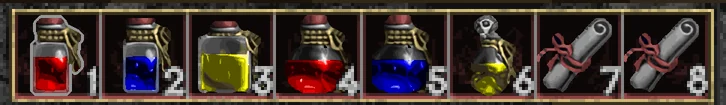
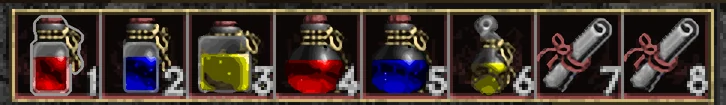
Items: the redrawn item pictures (the items page and the devlog post's game pictures recaptured with the new set) and a new devlog section, Fresh eyes: the fans who spotted the plastic blood, the second round, 1996, the first version and now side by side

diff --git a/items/index.html b/items/index.html
@@ -254,7 +254,7 @@ function onDpr(fn) {
    whole sheet over at once; pressing an item and holding (or Space or Enter on it) shows its other picture while
    held. The sheet's scale is capped: one capture pixel at most two device pixels. */
 (function(){
-const D = {"items":[{"inv":"A","label":"The Undead Crown","c":8,"r":0,"w":2,"h":2,"q":"unique","kind":"Unique","line":"Straight off the Skeleton King's head. He's had it long enough.","curs":77,"type":7},{"inv":"A","label":"Empyrean Band","c":7,"r":3,"w":1,"h":1,"q":"unique","kind":"Unique","line":null,"curs":18,"type":12},{"inv":"A","label":"Optic Amulet","c":5,"r":3,"w":1,"h":1,"q":"unique","kind":"Unique","line":null,"curs":44,"type":13},{"inv":"A","label":"Ring of Truth","c":4,"r":3,"w":1,"h":1,"q":"unique","kind":"Unique","line":null,"curs":10,"type":12},{"inv":"A","label":"Harlequin Crest","c":6,"r":0,"w":2,"h":2,"q":"unique","kind":"Unique","line":"Minus three armour. Wear it anyway.","curs":81,"type":7},{"inv":"A","label":"Arkaine's Valor","c":0,"r":0,"w":2,"h":3,"q":"unique","kind":"Unique","line":"Everyone remembers the first time they put it on.","curs":157,"type":8},{"inv":"A","label":"The Butcher's Cleaver","c":2,"r":0,"w":2,"h":3,"q":"unique","kind":"Unique","line":"Pried out of the Butcher's hands. Still sticky.","curs":106,"type":2},{"inv":"A","label":"Potion of Full Healing","c":9,"r":2,"w":1,"h":1,"q":"normal","kind":"Potion","line":null,"curs":35,"type":0},{"inv":"A","label":"Potion of Healing","c":0,"r":3,"w":1,"h":1,"q":"normal","kind":"Potion","line":"Click, click, click\u2026 still dying.","curs":32,"type":0},{"inv":"A","label":"Elixir of Vitality","c":8,"r":2,"w":1,"h":1,"q":"normal","kind":"Elixir","line":null,"curs":31,"type":0},{"inv":"A","label":"Elixir of Dexterity","c":7,"r":2,"w":1,"h":1,"q":"normal","kind":"Elixir","line":null,"curs":36,"type":0},{"inv":"A","label":"Ring of magic","c":9,"r":3,"w":1,"h":1,"q":"magic","kind":"Magic","line":null,"curs":12,"type":12},{"inv":"A","label":"Scroll of Town Portal","c":8,"r":3,"w":1,"h":1,"q":"normal","kind":"Scroll","line":"Read it and run. No shame.","curs":1,"type":0},{"inv":"A","label":"Gold","c":6,"r":2,"w":1,"h":1,"q":"normal","kind":"Gold","line":null,"curs":6,"type":11},{"inv":"A","label":"The Grandfather","c":4,"r":0,"w":2,"h":3,"q":"unique","kind":"Unique","line":"A great sword in one hand. Don't ask how.","curs":161,"type":1},{"inv":"A","label":"Potion of Mana","c":1,"r":3,"w":1,"h":1,"q":"normal","kind":"Potion","line":null,"curs":39,"type":0},{"inv":"A","label":"Potion of Full Rejuvenation","c":2,"r":3,"w":1,"h":1,"q":"normal","kind":"Potion","line":null,"curs":33,"type":0},{"inv":"A","label":"Elixir of Strength","c":3,"r":3,"w":1,"h":1,"q":"normal","kind":"Elixir","line":null,"curs":38,"type":0},{"inv":"A","label":"Bramble","c":6,"r":3,"w":1,"h":1,"q":"unique","kind":"Unique","line":null,"curs":9,"type":12},{"inv":"B","label":"The Executioner's Blade","c":9,"r":0,"w":1,"h":3,"q":"unique","kind":"Unique","line":null,"curs":58,"type":1},{"inv":"B","label":"Potion of Full Mana","c":9,"r":3,"w":1,"h":1,"q":"normal","kind":"Potion","line":null,"curs":0,"type":0},{"inv":"B","label":"Spectral Elixir","c":1,"r":3,"w":1,"h":1,"q":"normal","kind":"Quest","line":null,"curs":15,"type":0},{"inv":"B","label":"Ring of Engagement","c":7,"r":3,"w":1,"h":1,"q":"unique","kind":"Unique","line":null,"curs":13,"type":12},{"inv":"B","label":"Bronze Amulet of the fox","c":8,"r":3,"w":1,"h":1,"q":"magic","kind":"Magic","line":null,"curs":45,"type":13},{"inv":"B","label":"Staff of Lazarus","c":4,"r":0,"w":2,"h":3,"q":"normal","kind":"Quest","line":null,"curs":155,"type":0},{"inv":"B","label":"Gryphon's Claw","c":8,"r":0,"w":1,"h":3,"q":"unique","kind":"Unique","line":null,"curs":68,"type":1},{"inv":"B","label":"Messerschmidt's Reaver","c":2,"r":0,"w":2,"h":3,"q":"unique","kind":"Unique","line":"Messerschmidt means knife-smith. This is not a knife.","curs":163,"type":2},{"inv":"B","label":"Blood Stone","c":2,"r":3,"w":1,"h":1,"q":"normal","kind":"Quest","line":null,"curs":25,"type":0},{"inv":"B","label":"Constricting Ring","c":6,"r":3,"w":1,"h":1,"q":"unique","kind":"Unique","line":null,"curs":14,"type":12},{"inv":"B","label":"Brain","c":3,"r":3,"w":1,"h":1,"q":"normal","kind":"Quest","line":null,"curs":40,"type":0},{"inv":"B","label":"Ring of Regha","c":5,"r":3,"w":1,"h":1,"q":"unique","kind":"Unique","line":null,"curs":11,"type":12},{"inv":"B","label":"The Bleeder","c":4,"r":3,"w":1,"h":1,"q":"unique","kind":"Unique","line":null,"curs":8,"type":12},{"inv":"B","label":"Windforce","c":0,"r":0,"w":2,"h":3,"q":"unique","kind":"Unique","line":"Knocks them back. Way back.","curs":164,"type":3},{"inv":"B","label":"Golden Elixir","c":0,"r":3,"w":1,"h":1,"q":"normal","kind":"Quest","line":null,"curs":17,"type":0},{"inv":"B","label":"Anvil of Fury","c":6,"r":0,"w":2,"h":3,"q":"normal","kind":"Quest","line":null,"curs":140,"type":0},{"inv":"C","label":"Tavern Sign","c":2,"r":0,"w":2,"h":3,"q":"normal","kind":"Quest","line":"Ogden has been asking for it for 30 years.","curs":126,"type":0},{"inv":"C","label":"Fungal Tome","c":4,"r":0,"w":2,"h":2,"q":"normal","kind":"Quest","line":null,"curs":97,"type":0},{"inv":"C","label":"Magic Rock","c":6,"r":0,"w":2,"h":2,"q":"normal","kind":"Quest","line":null,"curs":76,"type":0},{"inv":"C","label":"Potion of Rejuvenation","c":3,"r":3,"w":1,"h":1,"q":"normal","kind":"Potion","line":null,"curs":37,"type":0},{"inv":"C","label":"Veil of Steel","c":8,"r":2,"w":2,"h":2,"q":"unique","kind":"Unique","line":"Takes some of your light away. In Diablo, of all games.","curs":85,"type":7},{"inv":"C","label":"Scroll of Identify","c":0,"r":3,"w":1,"h":1,"q":"normal","kind":"Scroll","line":null,"curs":1,"type":0},{"inv":"C","label":"Book","c":4,"r":2,"w":2,"h":2,"q":"normal","kind":"Book","line":null,"curs":86,"type":0},{"inv":"C","label":"Elixir of Magic","c":1,"r":3,"w":1,"h":1,"q":"normal","kind":"Elixir","line":null,"curs":34,"type":0},{"inv":"C","label":"Stonecleaver","c":0,"r":0,"w":2,"h":3,"q":"unique","kind":"Unique","line":null,"curs":104,"type":2},{"inv":"C","label":"Royal Circlet","c":8,"r":0,"w":2,"h":2,"q":"unique","kind":"Unique","line":null,"curs":79,"type":7},{"inv":"C","label":"Black Mushroom","c":6,"r":2,"w":2,"h":2,"q":"normal","kind":"Quest","line":null,"curs":89,"type":0},{"inv":"D","label":"Cap","c":6,"r":2,"w":2,"h":2,"q":"magic","kind":"Magic","line":null,"curs":91,"type":7},{"inv":"D","label":"Full Plate Mail","c":0,"r":0,"w":2,"h":3,"q":"magic","kind":"Magic","line":"Every Warrior's dream. Clanks a bit.","curs":151,"type":9},{"inv":"D","label":"Ring of balance","c":0,"r":3,"w":1,"h":1,"q":"magic","kind":"Magic","line":null,"curs":12,"type":12},{"inv":"D","label":"The Rainbow Cloak","c":4,"r":0,"w":2,"h":3,"q":"unique","kind":"Unique","line":"Nothing says gothic horror like a rainbow.","curs":138,"type":6},{"inv":"D","label":"Gold","c":5,"r":3,"w":1,"h":1,"q":"normal","kind":"Gold","line":null,"curs":5,"type":11},{"inv":"D","label":"OverLord's Helm","c":6,"r":0,"w":2,"h":2,"q":"unique","kind":"Unique","line":null,"curs":99,"type":7},{"inv":"D","label":"Elixir of Vitality","c":4,"r":3,"w":1,"h":1,"q":"normal","kind":"Elixir","line":null,"curs":31,"type":0},{"inv":"D","label":"Potion of Full Healing","c":3,"r":3,"w":1,"h":1,"q":"normal","kind":"Potion","line":null,"curs":35,"type":0},{"inv":"D","label":"Amulet of the fox","c":1,"r":3,"w":1,"h":1,"q":"magic","kind":"Magic","line":null,"curs":45,"type":13},{"inv":"D","label":"Tower Shield","c":2,"r":0,"w":2,"h":3,"q":"magic","kind":"Magic","line":"Hide behind it. We won't tell.","curs":132,"type":5},{"inv":"D","label":"Great Helm","c":8,"r":2,"w":2,"h":2,"q":"magic","kind":"Magic","line":null,"curs":98,"type":7},{"inv":"D","label":"Scroll of Healing","c":2,"r":3,"w":1,"h":1,"q":"normal","kind":"Scroll","line":null,"curs":1,"type":0},{"inv":"D","label":"Crown","c":8,"r":0,"w":2,"h":2,"q":"magic","kind":"Magic","line":null,"curs":95,"type":7},{"inv":"E","label":"Gonnagal's Dirk","c":8,"r":0,"w":1,"h":2,"q":"unique","kind":"Unique","line":null,"curs":54,"type":1},{"inv":"E","label":"Black Razor","c":9,"r":2,"w":1,"h":2,"q":"unique","kind":"Unique","line":"Small, and not here to make friends.","curs":53,"type":1},{"inv":"E","label":"Wizardspike","c":9,"r":0,"w":1,"h":2,"q":"unique","kind":"Unique","line":null,"curs":50,"type":1},{"inv":"E","label":"Potion of Healing","c":0,"r":3,"w":1,"h":1,"q":"normal","kind":"Potion","line":"Click, click, click\u2026 still dying.","curs":32,"type":0},{"inv":"E","label":"Amulet of vitality","c":5,"r":3,"w":1,"h":1,"q":"magic","kind":"Magic","line":null,"curs":45,"type":13},{"inv":"E","label":"Elixir of Strength","c":2,"r":3,"w":1,"h":1,"q":"normal","kind":"Elixir","line":null,"curs":38,"type":0},{"inv":"E","label":"Dagger","c":8,"r":2,"w":1,"h":2,"q":"magic","kind":"Magic","line":null,"curs":51,"type":1},{"inv":"E","label":"Elixir of Dexterity","c":3,"r":3,"w":1,"h":1,"q":"normal","kind":"Elixir","line":null,"curs":36,"type":0},{"inv":"E","label":"Potion of Rejuvenation","c":1,"r":3,"w":1,"h":1,"q":"normal","kind":"Potion","line":null,"curs":37,"type":0},{"inv":"E","label":"Morning Star","c":7,"r":0,"w":1,"h":3,"q":"magic","kind":"Magic","line":null,"curs":63,"type":4},{"inv":"E","label":"Bastard Sword","c":6,"r":0,"w":1,"h":3,"q":"magic","kind":"Magic","line":null,"curs":57,"type":1},{"inv":"E","label":"Scimitar","c":4,"r":0,"w":1,"h":3,"q":"magic","kind":"Magic","line":null,"curs":72,"type":1},{"inv":"E","label":"Bronze Ring","c":4,"r":3,"w":1,"h":1,"q":"magic","kind":"Magic","line":null,"curs":12,"type":12},{"inv":"E","label":"Gold","c":7,"r":3,"w":1,"h":1,"q":"normal","kind":"Gold","line":null,"curs":4,"type":11},{"inv":"E","label":"Scroll of Stone Curse","c":6,"r":3,"w":1,"h":1,"q":"normal","kind":"Scroll","line":null,"curs":1,"type":0},{"inv":"E","label":"The Needler","c":0,"r":0,"w":2,"h":3,"q":"unique","kind":"Unique","line":"It's called the Needler, and it does exactly that.","curs":158,"type":3},{"inv":"E","label":"Claymore","c":5,"r":0,"w":1,"h":3,"q":"magic","kind":"Magic","line":null,"curs":65,"type":1},{"inv":"E","label":"Great Axe","c":2,"r":0,"w":2,"h":3,"q":"magic","kind":"Magic","line":null,"curs":143,"type":2},{"inv":"F","label":"Skull Cap","c":6,"r":2,"w":2,"h":2,"q":"magic","kind":"Magic","line":null,"curs":90,"type":7},{"inv":"F","label":"Thinking Cap","c":6,"r":0,"w":2,"h":2,"q":"unique","kind":"Unique","line":"We could use one of these at work.","curs":93,"type":7},{"inv":"F","label":"Potion of Mana","c":0,"r":3,"w":1,"h":1,"q":"normal","kind":"Potion","line":null,"curs":39,"type":0},{"inv":"F","label":"Amulet of balance","c":4,"r":3,"w":1,"h":1,"q":"magic","kind":"Magic","line":null,"curs":45,"type":13},{"inv":"F","label":"Long Staff","c":2,"r":0,"w":2,"h":3,"q":"magic","kind":"Magic","line":null,"curs":123,"type":10},{"inv":"F","label":"The Protector","c":4,"r":0,"w":2,"h":3,"q":"unique","kind":"Unique","line":null,"curs":162,"type":10},{"inv":"F","label":"Book of Charged Bolt","c":8,"r":2,"w":2,"h":2,"q":"normal","kind":"Book","line":null,"curs":88,"type":0},{"inv":"F","label":"Scroll of Fireball","c":5,"r":3,"w":1,"h":1,"q":"normal","kind":"Scroll","line":null,"curs":1,"type":0},{"inv":"F","label":"Ring of the fox","c":3,"r":3,"w":1,"h":1,"q":"magic","kind":"Magic","line":null,"curs":12,"type":12},{"inv":"F","label":"Elixir of Magic","c":2,"r":3,"w":1,"h":1,"q":"normal","kind":"Elixir","line":null,"curs":34,"type":0},{"inv":"F","label":"War Staff","c":0,"r":0,"w":2,"h":3,"q":"magic","kind":"Magic","line":null,"curs":124,"type":10},{"inv":"F","label":"Potion of Full Mana","c":1,"r":3,"w":1,"h":1,"q":"normal","kind":"Potion","line":null,"curs":0,"type":0},{"inv":"F","label":"Book of Firebolt","c":8,"r":0,"w":2,"h":2,"q":"normal","kind":"Book","line":"Every Sorcerer's first spell. Ours too.","curs":87,"type":0}],"img":{"A_hi":"img/grida_brutal.webp","A_1x":"img/grida_1996.webp","B_hi":"img/gridb_brutal.webp","B_1x":"img/gridb_1996.webp","C_hi":"img/gridc_brutal.webp","C_1x":"img/gridc_1996.webp","D_hi":"img/gridd_brutal.webp","D_1x":"img/gridd_1996.webp","E_hi":"img/gride_brutal.webp","E_1x":"img/gride_1996.webp","F_hi":"img/gridf_brutal.webp","F_1x":"img/gridf_1996.webp"},"cell":116,"cols":10,"rows":4};
+const D = {"items":[{"inv":"A","label":"The Undead Crown","c":8,"r":0,"w":2,"h":2,"q":"unique","kind":"Unique","line":"Straight off the Skeleton King's head. He's had it long enough.","curs":77,"type":7},{"inv":"A","label":"Empyrean Band","c":7,"r":3,"w":1,"h":1,"q":"unique","kind":"Unique","line":null,"curs":18,"type":12},{"inv":"A","label":"Optic Amulet","c":5,"r":3,"w":1,"h":1,"q":"unique","kind":"Unique","line":null,"curs":44,"type":13},{"inv":"A","label":"Ring of Truth","c":4,"r":3,"w":1,"h":1,"q":"unique","kind":"Unique","line":null,"curs":10,"type":12},{"inv":"A","label":"Harlequin Crest","c":6,"r":0,"w":2,"h":2,"q":"unique","kind":"Unique","line":"Minus three armour. Wear it anyway.","curs":81,"type":7},{"inv":"A","label":"Arkaine's Valor","c":0,"r":0,"w":2,"h":3,"q":"unique","kind":"Unique","line":"Everyone remembers the first time they put it on.","curs":157,"type":8},{"inv":"A","label":"The Butcher's Cleaver","c":2,"r":0,"w":2,"h":3,"q":"unique","kind":"Unique","line":"Pried out of the Butcher's hands. Still sticky.","curs":106,"type":2},{"inv":"A","label":"Potion of Full Healing","c":9,"r":2,"w":1,"h":1,"q":"normal","kind":"Potion","line":null,"curs":35,"type":0},{"inv":"A","label":"Elixir of Vitality","c":8,"r":2,"w":1,"h":1,"q":"normal","kind":"Elixir","line":null,"curs":31,"type":0},{"inv":"A","label":"Elixir of Dexterity","c":7,"r":2,"w":1,"h":1,"q":"normal","kind":"Elixir","line":null,"curs":36,"type":0},{"inv":"A","label":"Potion of Healing","c":0,"r":3,"w":1,"h":1,"q":"normal","kind":"Potion","line":"Click, click, click\u2026 still dying.","curs":32,"type":0},{"inv":"A","label":"Elixir of Strength","c":3,"r":3,"w":1,"h":1,"q":"normal","kind":"Elixir","line":null,"curs":38,"type":0},{"inv":"A","label":"Potion of Full Rejuvenation","c":2,"r":3,"w":1,"h":1,"q":"normal","kind":"Potion","line":null,"curs":33,"type":0},{"inv":"A","label":"Ring of magic","c":9,"r":3,"w":1,"h":1,"q":"magic","kind":"Magic","line":null,"curs":12,"type":12},{"inv":"A","label":"Scroll of Town Portal","c":8,"r":3,"w":1,"h":1,"q":"normal","kind":"Scroll","line":"Read it and run. No shame.","curs":1,"type":0},{"inv":"A","label":"Gold","c":6,"r":2,"w":1,"h":1,"q":"normal","kind":"Gold","line":null,"curs":6,"type":11},{"inv":"A","label":"The Grandfather","c":4,"r":0,"w":2,"h":3,"q":"unique","kind":"Unique","line":"A great sword in one hand. Don't ask how.","curs":161,"type":1},{"inv":"A","label":"Potion of Mana","c":1,"r":3,"w":1,"h":1,"q":"normal","kind":"Potion","line":null,"curs":39,"type":0},{"inv":"A","label":"Bramble","c":6,"r":3,"w":1,"h":1,"q":"unique","kind":"Unique","line":null,"curs":9,"type":12},{"inv":"B","label":"The Executioner's Blade","c":9,"r":0,"w":1,"h":3,"q":"unique","kind":"Unique","line":null,"curs":58,"type":1},{"inv":"B","label":"Potion of Full Mana","c":9,"r":3,"w":1,"h":1,"q":"normal","kind":"Potion","line":null,"curs":0,"type":0},{"inv":"B","label":"Bronze Amulet of the fox","c":8,"r":3,"w":1,"h":1,"q":"magic","kind":"Magic","line":null,"curs":45,"type":13},{"inv":"B","label":"Ring of Engagement","c":7,"r":3,"w":1,"h":1,"q":"unique","kind":"Unique","line":null,"curs":13,"type":12},{"inv":"B","label":"Golden Elixir","c":0,"r":3,"w":1,"h":1,"q":"normal","kind":"Quest","line":null,"curs":17,"type":0},{"inv":"B","label":"Staff of Lazarus","c":4,"r":0,"w":2,"h":3,"q":"normal","kind":"Quest","line":null,"curs":155,"type":0},{"inv":"B","label":"Gryphon's Claw","c":8,"r":0,"w":1,"h":3,"q":"unique","kind":"Unique","line":null,"curs":68,"type":1},{"inv":"B","label":"Messerschmidt's Reaver","c":2,"r":0,"w":2,"h":3,"q":"unique","kind":"Unique","line":"Messerschmidt means knife-smith. This is not a knife.","curs":163,"type":2},{"inv":"B","label":"Spectral Elixir","c":1,"r":3,"w":1,"h":1,"q":"normal","kind":"Quest","line":null,"curs":15,"type":0},{"inv":"B","label":"Blood Stone","c":2,"r":3,"w":1,"h":1,"q":"normal","kind":"Quest","line":null,"curs":25,"type":0},{"inv":"B","label":"Constricting Ring","c":6,"r":3,"w":1,"h":1,"q":"unique","kind":"Unique","line":null,"curs":14,"type":12},{"inv":"B","label":"Ring of Regha","c":5,"r":3,"w":1,"h":1,"q":"unique","kind":"Unique","line":null,"curs":11,"type":12},{"inv":"B","label":"The Bleeder","c":4,"r":3,"w":1,"h":1,"q":"unique","kind":"Unique","line":null,"curs":8,"type":12},{"inv":"B","label":"Brain","c":3,"r":3,"w":1,"h":1,"q":"normal","kind":"Quest","line":null,"curs":40,"type":0},{"inv":"B","label":"Windforce","c":0,"r":0,"w":2,"h":3,"q":"unique","kind":"Unique","line":"Knocks them back. Way back.","curs":164,"type":3},{"inv":"B","label":"Anvil of Fury","c":6,"r":0,"w":2,"h":3,"q":"normal","kind":"Quest","line":null,"curs":140,"type":0},{"inv":"C","label":"Tavern Sign","c":2,"r":0,"w":2,"h":3,"q":"normal","kind":"Quest","line":"Ogden has been asking for it for 30 years.","curs":126,"type":0},{"inv":"C","label":"Fungal Tome","c":4,"r":0,"w":2,"h":2,"q":"normal","kind":"Quest","line":null,"curs":97,"type":0},{"inv":"C","label":"Magic Rock","c":6,"r":0,"w":2,"h":2,"q":"normal","kind":"Quest","line":null,"curs":76,"type":0},{"inv":"C","label":"Potion of Rejuvenation","c":3,"r":3,"w":1,"h":1,"q":"normal","kind":"Potion","line":null,"curs":37,"type":0},{"inv":"C","label":"Veil of Steel","c":8,"r":2,"w":2,"h":2,"q":"unique","kind":"Unique","line":"Takes some of your light away. In Diablo, of all games.","curs":85,"type":7},{"inv":"C","label":"Scroll of Identify","c":0,"r":3,"w":1,"h":1,"q":"normal","kind":"Scroll","line":null,"curs":1,"type":0},{"inv":"C","label":"Book","c":4,"r":2,"w":2,"h":2,"q":"normal","kind":"Book","line":null,"curs":86,"type":0},{"inv":"C","label":"Elixir of Magic","c":1,"r":3,"w":1,"h":1,"q":"normal","kind":"Elixir","line":null,"curs":34,"type":0},{"inv":"C","label":"Stonecleaver","c":0,"r":0,"w":2,"h":3,"q":"unique","kind":"Unique","line":null,"curs":104,"type":2},{"inv":"C","label":"Royal Circlet","c":8,"r":0,"w":2,"h":2,"q":"unique","kind":"Unique","line":null,"curs":79,"type":7},{"inv":"C","label":"Black Mushroom","c":6,"r":2,"w":2,"h":2,"q":"normal","kind":"Quest","line":null,"curs":89,"type":0},{"inv":"D","label":"Cap","c":6,"r":2,"w":2,"h":2,"q":"magic","kind":"Magic","line":null,"curs":91,"type":7},{"inv":"D","label":"Full Plate Mail","c":0,"r":0,"w":2,"h":3,"q":"magic","kind":"Magic","line":"Every Warrior's dream. Clanks a bit.","curs":151,"type":9},{"inv":"D","label":"Ring of balance","c":0,"r":3,"w":1,"h":1,"q":"magic","kind":"Magic","line":null,"curs":12,"type":12},{"inv":"D","label":"The Rainbow Cloak","c":4,"r":0,"w":2,"h":3,"q":"unique","kind":"Unique","line":"Nothing says gothic horror like a rainbow.","curs":138,"type":6},{"inv":"D","label":"Gold","c":5,"r":3,"w":1,"h":1,"q":"normal","kind":"Gold","line":null,"curs":5,"type":11},{"inv":"D","label":"OverLord's Helm","c":6,"r":0,"w":2,"h":2,"q":"unique","kind":"Unique","line":null,"curs":99,"type":7},{"inv":"D","label":"Elixir of Vitality","c":4,"r":3,"w":1,"h":1,"q":"normal","kind":"Elixir","line":null,"curs":31,"type":0},{"inv":"D","label":"Potion of Full Healing","c":3,"r":3,"w":1,"h":1,"q":"normal","kind":"Potion","line":null,"curs":35,"type":0},{"inv":"D","label":"Amulet of the fox","c":1,"r":3,"w":1,"h":1,"q":"magic","kind":"Magic","line":null,"curs":45,"type":13},{"inv":"D","label":"Tower Shield","c":2,"r":0,"w":2,"h":3,"q":"magic","kind":"Magic","line":"Hide behind it. We won't tell.","curs":132,"type":5},{"inv":"D","label":"Great Helm","c":8,"r":2,"w":2,"h":2,"q":"magic","kind":"Magic","line":null,"curs":98,"type":7},{"inv":"D","label":"Scroll of Healing","c":2,"r":3,"w":1,"h":1,"q":"normal","kind":"Scroll","line":null,"curs":1,"type":0},{"inv":"D","label":"Crown","c":8,"r":0,"w":2,"h":2,"q":"magic","kind":"Magic","line":null,"curs":95,"type":7},{"inv":"E","label":"Gonnagal's Dirk","c":8,"r":0,"w":1,"h":2,"q":"unique","kind":"Unique","line":null,"curs":54,"type":1},{"inv":"E","label":"Black Razor","c":9,"r":2,"w":1,"h":2,"q":"unique","kind":"Unique","line":"Small, and not here to make friends.","curs":53,"type":1},{"inv":"E","label":"Wizardspike","c":9,"r":0,"w":1,"h":2,"q":"unique","kind":"Unique","line":null,"curs":50,"type":1},{"inv":"E","label":"Potion of Healing","c":0,"r":3,"w":1,"h":1,"q":"normal","kind":"Potion","line":"Click, click, click\u2026 still dying.","curs":32,"type":0},{"inv":"E","label":"Amulet of vitality","c":5,"r":3,"w":1,"h":1,"q":"magic","kind":"Magic","line":null,"curs":45,"type":13},{"inv":"E","label":"Elixir of Strength","c":2,"r":3,"w":1,"h":1,"q":"normal","kind":"Elixir","line":null,"curs":38,"type":0},{"inv":"E","label":"Dagger","c":8,"r":2,"w":1,"h":2,"q":"magic","kind":"Magic","line":null,"curs":51,"type":1},{"inv":"E","label":"Elixir of Dexterity","c":3,"r":3,"w":1,"h":1,"q":"normal","kind":"Elixir","line":null,"curs":36,"type":0},{"inv":"E","label":"Potion of Rejuvenation","c":1,"r":3,"w":1,"h":1,"q":"normal","kind":"Potion","line":null,"curs":37,"type":0},{"inv":"E","label":"Morning Star","c":7,"r":0,"w":1,"h":3,"q":"magic","kind":"Magic","line":null,"curs":63,"type":4},{"inv":"E","label":"Bastard Sword","c":6,"r":0,"w":1,"h":3,"q":"magic","kind":"Magic","line":null,"curs":57,"type":1},{"inv":"E","label":"Scimitar","c":4,"r":0,"w":1,"h":3,"q":"magic","kind":"Magic","line":null,"curs":72,"type":1},{"inv":"E","label":"Bronze Ring","c":4,"r":3,"w":1,"h":1,"q":"magic","kind":"Magic","line":null,"curs":12,"type":12},{"inv":"E","label":"Gold","c":7,"r":3,"w":1,"h":1,"q":"normal","kind":"Gold","line":null,"curs":4,"type":11},{"inv":"E","label":"Scroll of Stone Curse","c":6,"r":3,"w":1,"h":1,"q":"normal","kind":"Scroll","line":null,"curs":1,"type":0},{"inv":"E","label":"The Needler","c":0,"r":0,"w":2,"h":3,"q":"unique","kind":"Unique","line":"It's called the Needler, and it does exactly that.","curs":158,"type":3},{"inv":"E","label":"Claymore","c":5,"r":0,"w":1,"h":3,"q":"magic","kind":"Magic","line":null,"curs":65,"type":1},{"inv":"E","label":"Great Axe","c":2,"r":0,"w":2,"h":3,"q":"magic","kind":"Magic","line":null,"curs":143,"type":2},{"inv":"F","label":"Skull Cap","c":6,"r":2,"w":2,"h":2,"q":"magic","kind":"Magic","line":null,"curs":90,"type":7},{"inv":"F","label":"Thinking Cap","c":6,"r":0,"w":2,"h":2,"q":"unique","kind":"Unique","line":"We could use one of these at work.","curs":93,"type":7},{"inv":"F","label":"Potion of Mana","c":0,"r":3,"w":1,"h":1,"q":"normal","kind":"Potion","line":null,"curs":39,"type":0},{"inv":"F","label":"Amulet of balance","c":4,"r":3,"w":1,"h":1,"q":"magic","kind":"Magic","line":null,"curs":45,"type":13},{"inv":"F","label":"Long Staff","c":2,"r":0,"w":2,"h":3,"q":"magic","kind":"Magic","line":null,"curs":123,"type":10},{"inv":"F","label":"The Protector","c":4,"r":0,"w":2,"h":3,"q":"unique","kind":"Unique","line":null,"curs":162,"type":10},{"inv":"F","label":"Book of Charged Bolt","c":8,"r":2,"w":2,"h":2,"q":"normal","kind":"Book","line":null,"curs":88,"type":0},{"inv":"F","label":"Scroll of Fireball","c":5,"r":3,"w":1,"h":1,"q":"normal","kind":"Scroll","line":null,"curs":1,"type":0},{"inv":"F","label":"Ring of the fox","c":3,"r":3,"w":1,"h":1,"q":"magic","kind":"Magic","line":null,"curs":12,"type":12},{"inv":"F","label":"Elixir of Magic","c":2,"r":3,"w":1,"h":1,"q":"normal","kind":"Elixir","line":null,"curs":34,"type":0},{"inv":"F","label":"War Staff","c":0,"r":0,"w":2,"h":3,"q":"magic","kind":"Magic","line":null,"curs":124,"type":10},{"inv":"F","label":"Potion of Full Mana","c":1,"r":3,"w":1,"h":1,"q":"normal","kind":"Potion","line":null,"curs":0,"type":0},{"inv":"F","label":"Book of Firebolt","c":8,"r":0,"w":2,"h":2,"q":"normal","kind":"Book","line":"Every Sorcerer's first spell. Ours too.","curs":87,"type":0}],"img":{"A_hi":"img/grida_brutal.webp","A_1x":"img/grida_1996.webp","B_hi":"img/gridb_brutal.webp","B_1x":"img/gridb_1996.webp","C_hi":"img/gridc_brutal.webp","C_1x":"img/gridc_1996.webp","D_hi":"img/gridd_brutal.webp","D_1x":"img/gridd_1996.webp","E_hi":"img/gride_brutal.webp","E_1x":"img/gride_1996.webp","F_hi":"img/gridf_brutal.webp","F_1x":"img/gridf_1996.webp"},"cell":116,"cols":10,"rows":4};
 const $ = (s, r = document) => r.querySelector(s);
 const el = (tag, cls, attrs) => { const e = document.createElement(tag); if (cls) e.className = cls; if (attrs) for (const k in attrs) e.setAttribute(k, attrs[k]); return e; };
 const esc = s => String(s).replace(/[&<>"]/g, c => ({ '&': '&amp;', '<': '&lt;', '>': '&gt;', '"': '&quot;' }[c]));

diff --git a/devlog/items/index.html b/devlog/items/index.html
@@ -141,6 +141,20 @@
 <figure class="out"><div class="cmp cap2" style="--w:1160" role="group" aria-label="A full bag in Diablo (1996) and in Brutal Diablo"><div class="imgs"><img class="a" src="img/gridd_1996.webp" width="1160" height="464" alt="A bag of armour, helms and potions in Diablo (1996)" loading="lazy"><img class="b" src="img/gridd_brutal.webp" width="1160" height="464" alt="The same bag in Brutal Diablo" loading="lazy"></div><span class="side l"><span class="tag l">Diablo (1996)</span></span><span class="side r"><span class="tag r">Brutal Diablo</span></span><span class="handle" aria-hidden="true"></span><input type="range" min="0" max="100" value="50" aria-label="Move the divider between Diablo (1996) and Brutal Diablo"></div><figcaption>All 179 are recreated to match the original; these are the ones that fit one bag.</figcaption></figure>
 <p>Seventy-one of them are on the <a href="/items/">items page</a>, beside 1996. Tell us which one we got wrong (there's always one) on our <a href="https://discord.gg/NsG8gnhnJH">Discord</a>. Brutal Diablo is free and coming early 2027.</p>
 
+<h2 id="plastic">Fresh eyes</h2>
+<p>Looking at the same pictures every day, you stop seeing them. That happened to us here, and it's a big part of why we share the work while it's still in progress.</p>
+<p>Right after the items went out, some fans in comment sections told us the blood on the Butcher's Cleaver looked like plastic. They were right, and it took fresh eyes to see it. So we did another round, and for a few of the materials we found a better way to bring them closer to 1996.</p>
+<figure class="out"><div class="widget stepper" data-state='{"item":"cleaver"}'>
+  <div class="row"><span class="k">Item</span><button class="chip" type="button" data-key="item" data-v="cleaver">Cleaver</button><button class="chip" type="button" data-key="item" data-v="chain_mail">Chain Mail</button><button class="chip" type="button" data-key="item" data-v="studded_leather_armor">Studded Leather</button><button class="chip" type="button" data-key="item" data-v="kite_shield">Kite Shield</button></div>
+  <div class="cols3">
+    <figure><div class="pic cap2" style="--w:232"><img src="img/rough_1996_cleaver.webp" data-src="img/rough_1996_{item}.webp" width="232" height="348" alt="Diablo (1996)" loading="lazy"></div><figcaption>Diablo (1996)</figcaption></figure>
+    <figure><div class="pic cap2" style="--w:232"><img src="img/rough_before_cleaver.webp" data-src="img/rough_before_{item}.webp" width="232" height="348" alt="As we first shipped it" loading="lazy"></div><figcaption>First version</figcaption></figure>
+    <figure><div class="pic cap2" style="--w:232"><img src="img/rough_now_cleaver.webp" data-src="img/rough_now_{item}.webp" width="232" height="348" alt="Redrawn from the 1996 picture" loading="lazy"></div><figcaption>Now</figcaption></figure>
+  </div>
+  <p class="cap">Diablo (1996), our first version and the one in the game now.</p>
+</div></figure>
+<p>We like working this way. We show things early, we listen, and we fix them quickly. If something looks off to you, tell us in the comments or on our <a href="https://discord.gg/NsG8gnhnJH">Discord</a>. We read every comment, and yours just made the game better.</p>
+
 <h2>Thanks</h2>
 <p>To the <a href="https://github.com/diasurgical/devilutionX">DevilutionX</a> folks, who keep Diablo running on today's machines. To Blizzard North, for these items and the fever dream we're still chasing. And to the model makers: Black Forest Labs for FLUX.1-dev, Jasper for the upscaler ControlNet, the Depth Anything V2 authors, and ChrisNonyminus for 4x-SGI.</p>
 <h2>Tips</h2>

diff --git a/devlog/items/items.css b/devlog/items/items.css
@@ -26,8 +26,9 @@ figure.items .legend .r{color:var(--torch)}
 .chip.hkey{font-family:var(--display);font-weight:800;letter-spacing:.06em}
 .chip.hkey kbd{font:inherit;display:inline-block;min-width:1.4em;text-align:center;border:1px solid var(--ash);border-radius:3px;padding:0 .3em;margin-right:.35em}
 .cols5{display:grid;grid-template-columns:repeat(5,minmax(0,1fr));gap:.5rem;width:100%}
-.cols5 figure,.pairs figure,.gal figure{margin:0;justify-items:center}
-.cols5 figcaption,.pairs figcaption,.gal figcaption{text-align:center;justify-self:stretch}
+.cols3{display:grid;grid-template-columns:repeat(3,minmax(0,1fr));gap:.5rem;width:100%;max-width:44rem;margin-inline:auto}
+.cols5 figure,.cols3 figure,.pairs figure,.gal figure{margin:0;justify-items:center}
+.cols5 figcaption,.cols3 figcaption,.pairs figcaption,.gal figcaption{text-align:center;justify-self:stretch}
 @media (max-width:700px){.cols5{grid-template-columns:repeat(3,minmax(0,1fr))}}
 .gal{list-style:none;margin:0 auto;padding:0;display:grid;grid-template-columns:repeat(3,minmax(0,232px));justify-content:center;gap:.6rem .9rem}
 @media (max-width:700px){.gal{gap:.6rem .4rem}}
